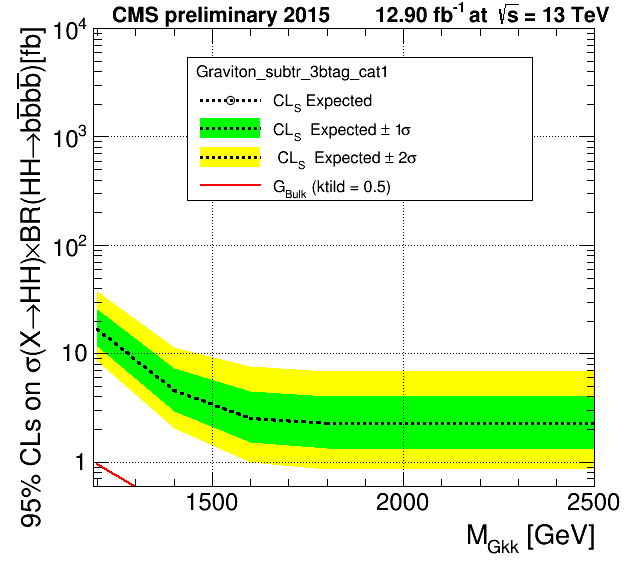
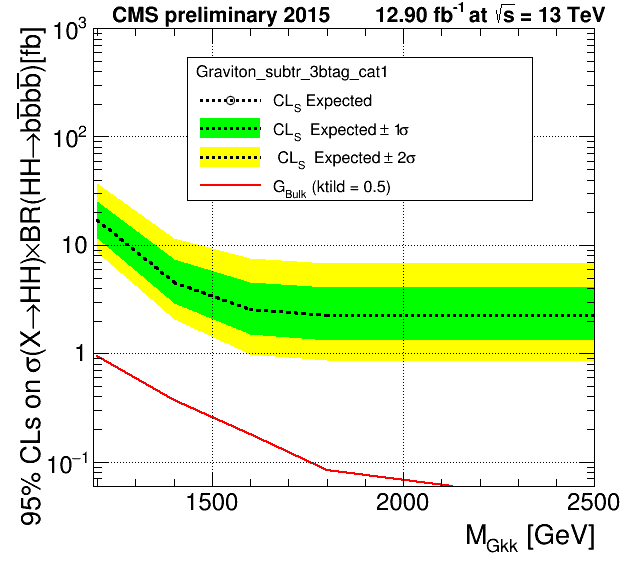
set Max Min

diff --git a/BumpSearchLimitCode/plot_Asymptotic_HHbbbb.C b/BumpSearchLimitCode/plot_Asymptotic_HHbbbb.C
@@ -323,7 +323,8 @@ void plot_Asymptotic_HHbbbb(string outputdir, int sigHyp, int subtr)
   grthSM10->SetName("SMXSection_2nd");
 
   // double fr_left = 590.0, fr_down = 1E-5, fr_right = 2000.0, fr_up = 0.5; 
-   double fr_left = 1190.0, fr_down = 5E-5, fr_right = 2500.0, fr_up = 5;
+  // double fr_left = 1190.0, fr_down = 5E-5, fr_right = 2500.0, fr_up = 5;
+  double fr_left = 1190.0, fr_down = 5E-3, fr_right = 2500.0, fr_up = 1E4;
 
   TCanvas *cMCMC = new TCanvas("c_lim_Asymptotic", "canvas with limits for Asymptotic CLs", 630, 600);
   cMCMC->cd();
@@ -336,8 +337,8 @@ void plot_Asymptotic_HHbbbb(string outputdir, int sigHyp, int subtr)
   
   hr->SetXTitle(xTitle.c_str());
   hr->SetYTitle("95% CLs on #sigma(X#rightarrowHH)#timesBR(HH#rightarrowb#bar{b}b#bar{b})[fb]"); // #rightarrow 2l2q
-  hr->SetMinimum(0.6);
-  hr->SetMaximum(10000);
+  hr->SetMinimum(0.06);
+  hr->SetMaximum(1000);
 
   gr95_cls->SetFillColor(kYellow);
   gr95_cls->SetFillStyle(1001);//solid
@@ -347,7 +348,7 @@ void plot_Asymptotic_HHbbbb(string outputdir, int sigHyp, int subtr)
   gr95_cls->GetYaxis()->SetTitle("95% CLs on #sigma(Z`#rightarrow#chi#bar{@chi}H)#timesBR(H#rightarrowb#bar{b})[fb] "); // #rightarrow 2l2q
   //gr95_cls->GetYaxis()->SetTitle("95% CLs on #sigma(Z`#rightarrow#chi#bar{#chi}H)[pb] "); // #rightarrow 2l2q
   gr95_cls->GetXaxis()->SetRangeUser(fr_left, fr_right);
-
+  //gr95_cls->GetYaxis()->SetRangeUser(1E-2, 1E4);
   gr95_cls->Draw("3");
   //  gr95_cls->SetMinimum(0.00001);
   //gr95_cls->SetMaximum(1000.0);
